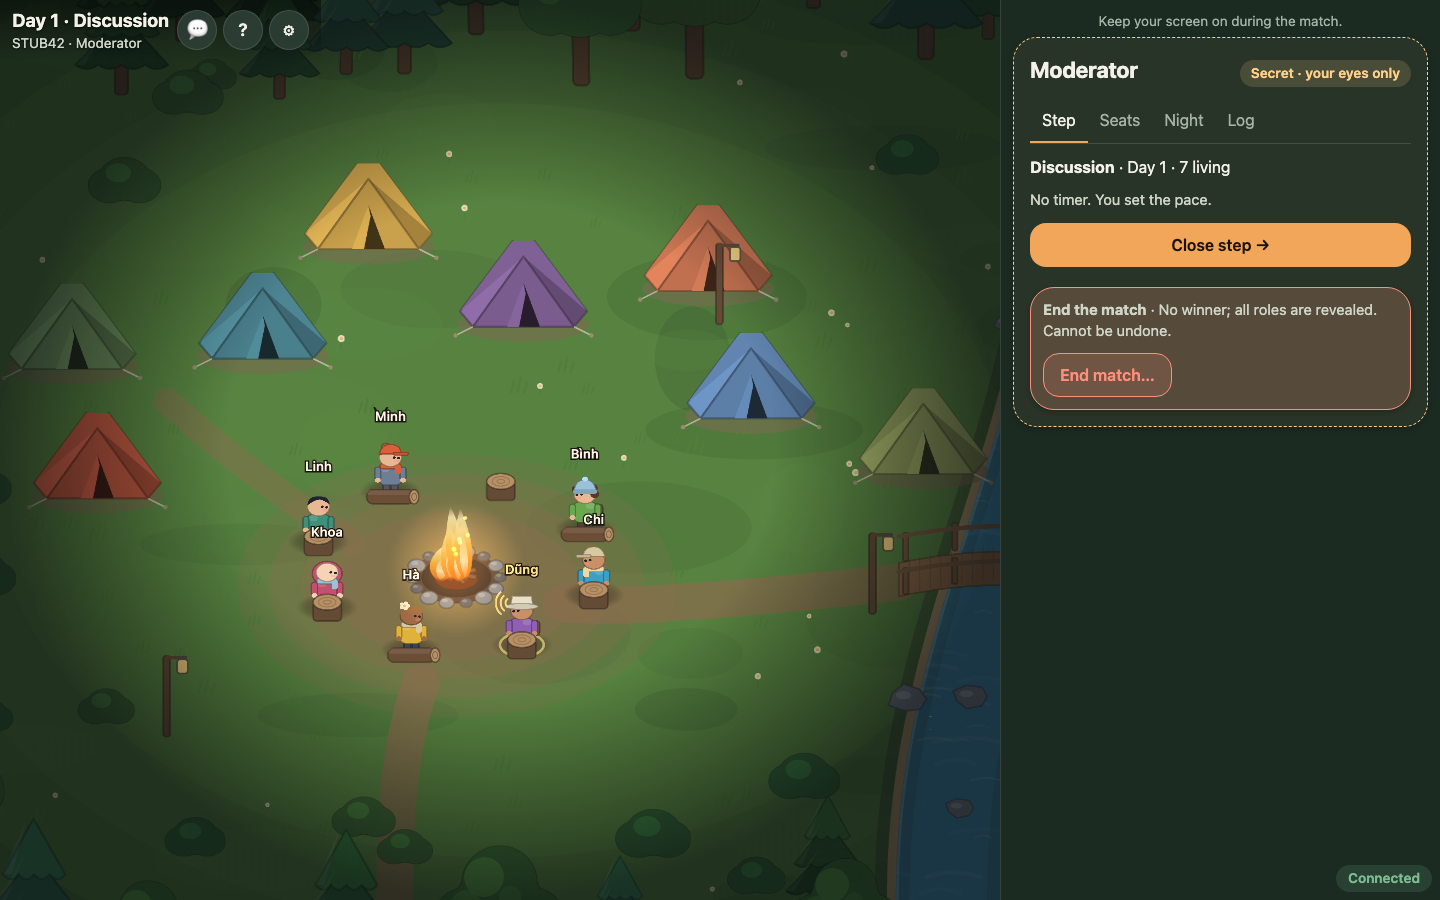
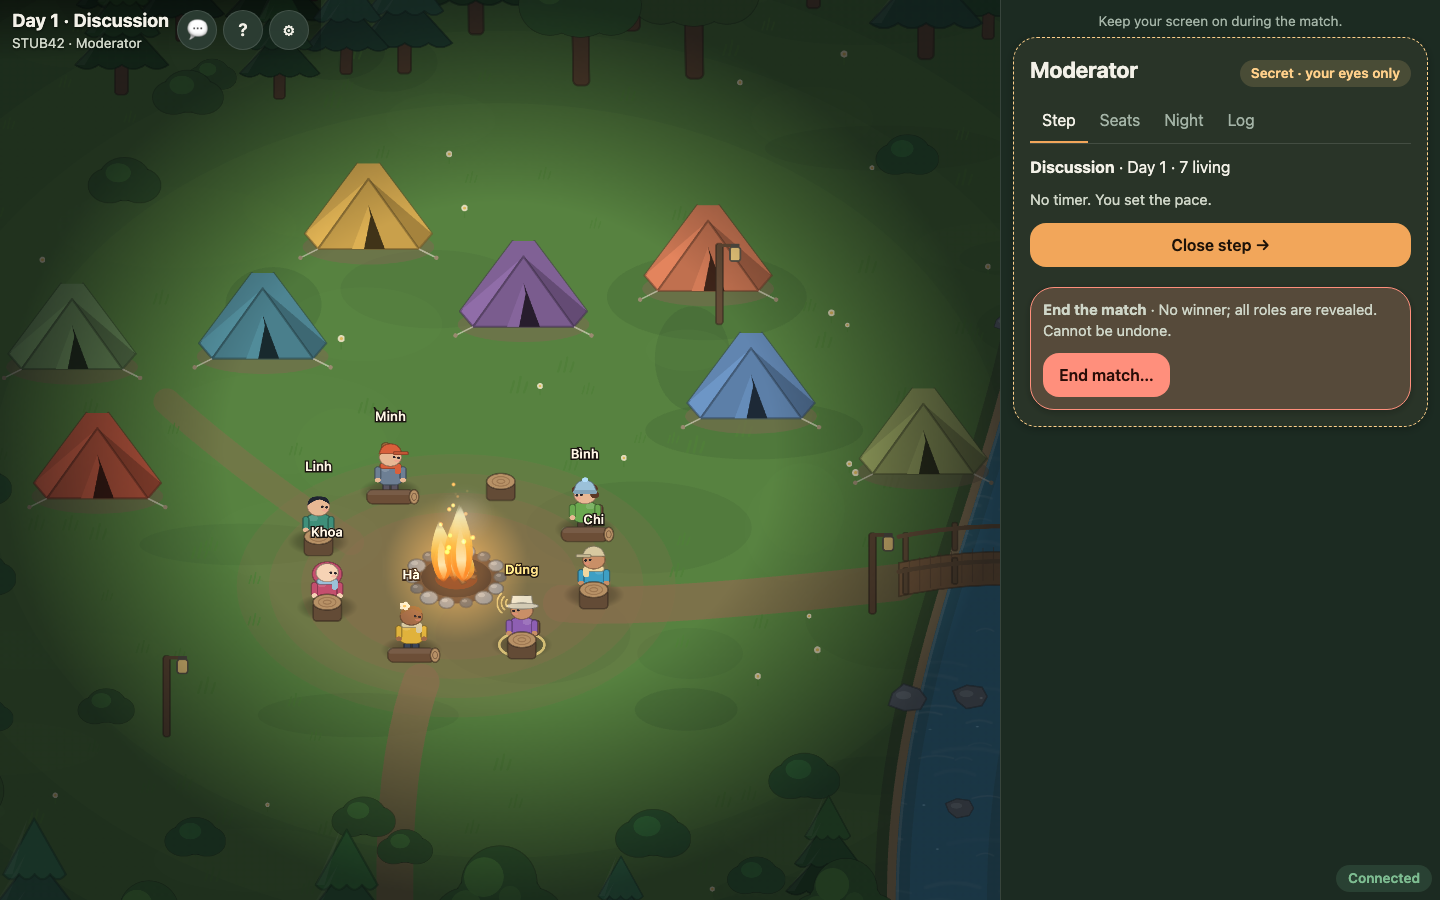
game-ui: solid danger buttons for contrast (layout checks 170/170)

Changed region(s): [[0.7188, 0.3733, 0.8125, 0.4667], [0.2812, 0.56, 0.3438, 0.6533], [0.3438, 0.6533, 0.375, 0.6844]]

diff --git a/apps/web/src/ui/theme/skin.css b/apps/web/src/ui/theme/skin.css
@@ -5,7 +5,7 @@
 .btn:disabled { opacity: .45; cursor: default; }
 .btn.secondary { background: var(--surface-3); color: var(--ink); border: 1px solid var(--line-strong); }
 .btn.quiet { background: transparent; color: var(--ink-2); border: 1px solid var(--line); }
-.btn.danger { background: var(--danger-soft); color: var(--danger); border: 1px solid var(--danger); }
+.btn.danger { background: var(--danger); color: #2a0d08; border: 0; }
 .btn.icon { padding: 0; width: var(--tap); border-radius: var(--r-pill); background: var(--surface-2); color: var(--ink); border: 1px solid var(--line); font-size: 1.1rem; }
 .btn.icon[aria-pressed="true"] { background: var(--accent); color: var(--ink-on-accent); }
 :is(.btn, input, select, textarea, [tabindex]):focus-visible { outline: none; box-shadow: var(--focus); }
